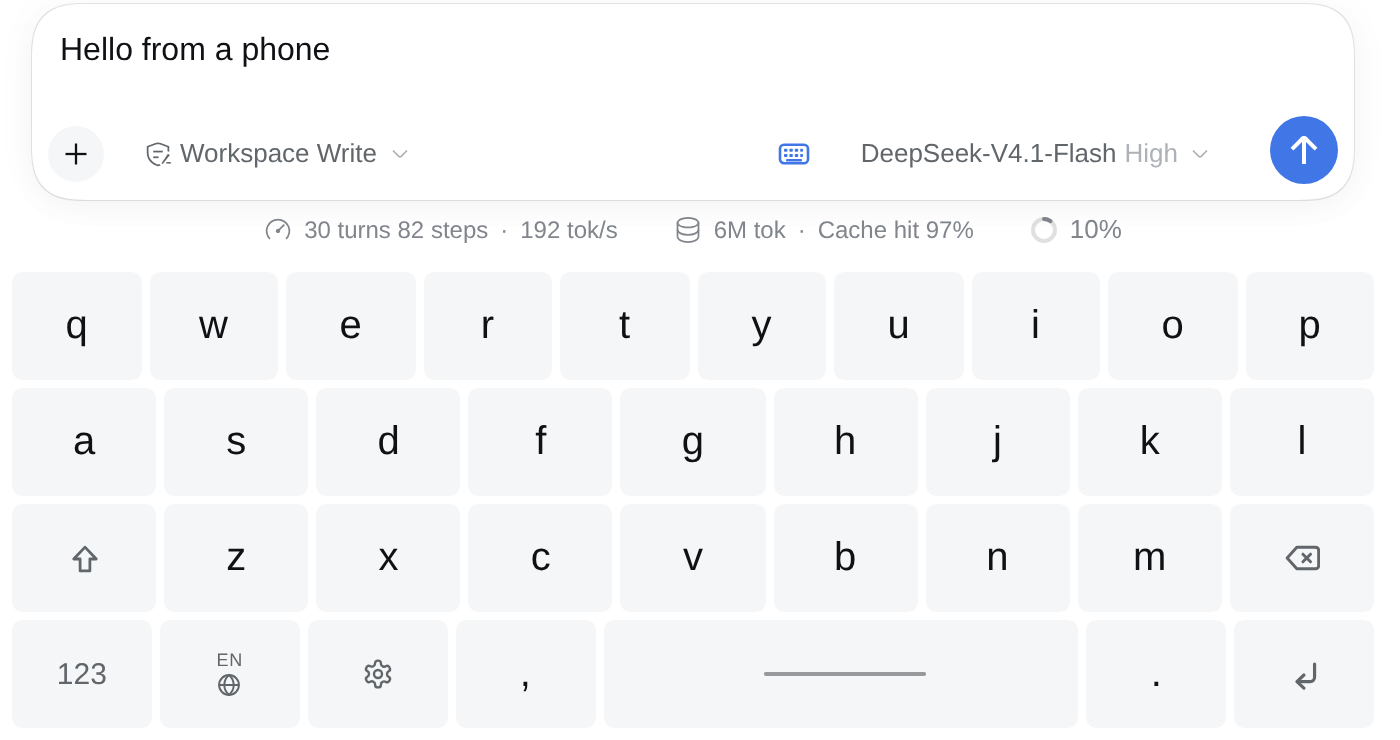
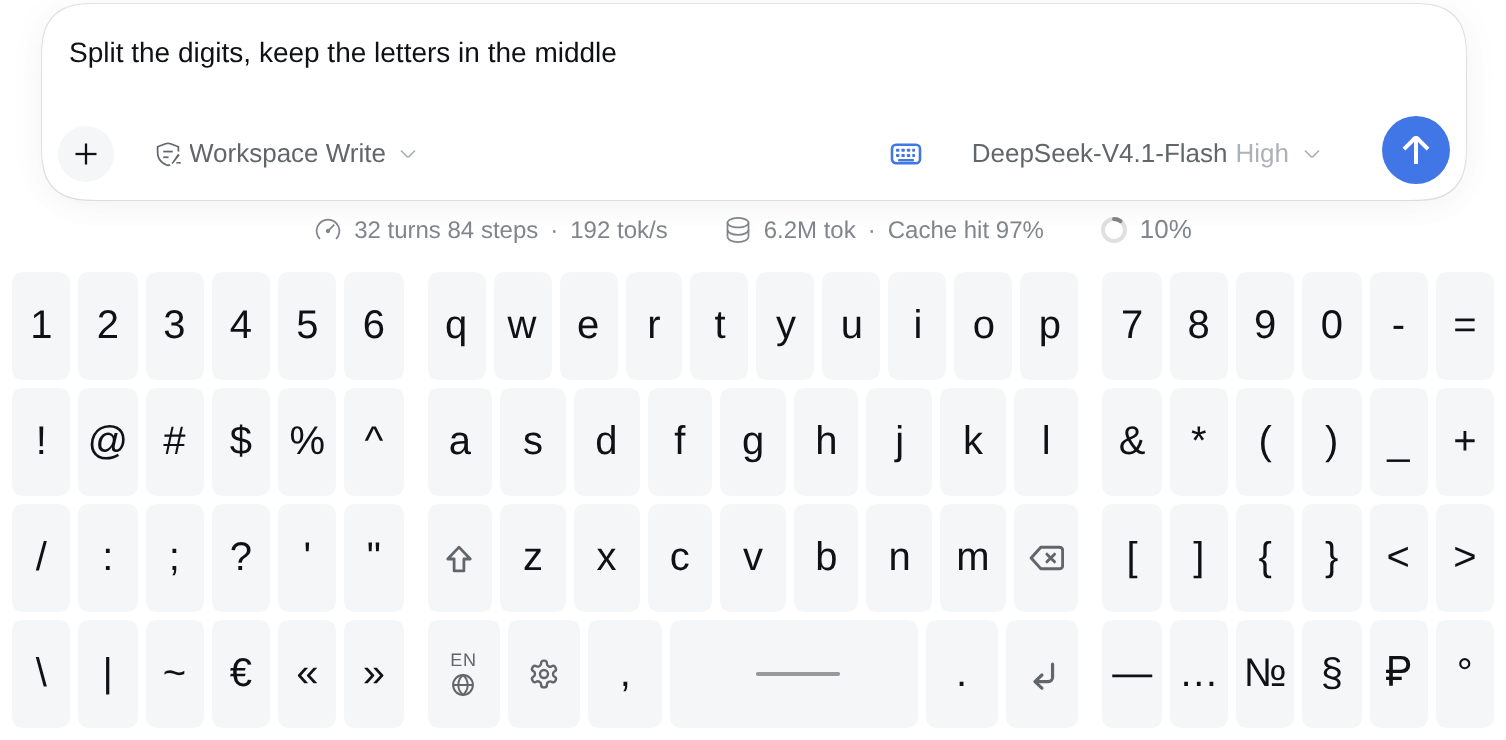
Use the split-digits layout as the README hero image

diff --git a/README.md b/README.md
@@ -8,7 +8,7 @@ what you tap is what you get, and Shift is a manual sticky key.
 ![No build step](https://img.shields.io/badge/build-none-brightgreen.svg)
 ![Languages](https://img.shields.io/badge/layouts-15-blueviolet.svg)
 
-![The keyboard under the composer](docs/screenshots/hero.png)
+![doublekeys under the composer: the digits split to the edges, the letters in the middle](docs/screenshots/hero.png)
 
 ## Why
 
